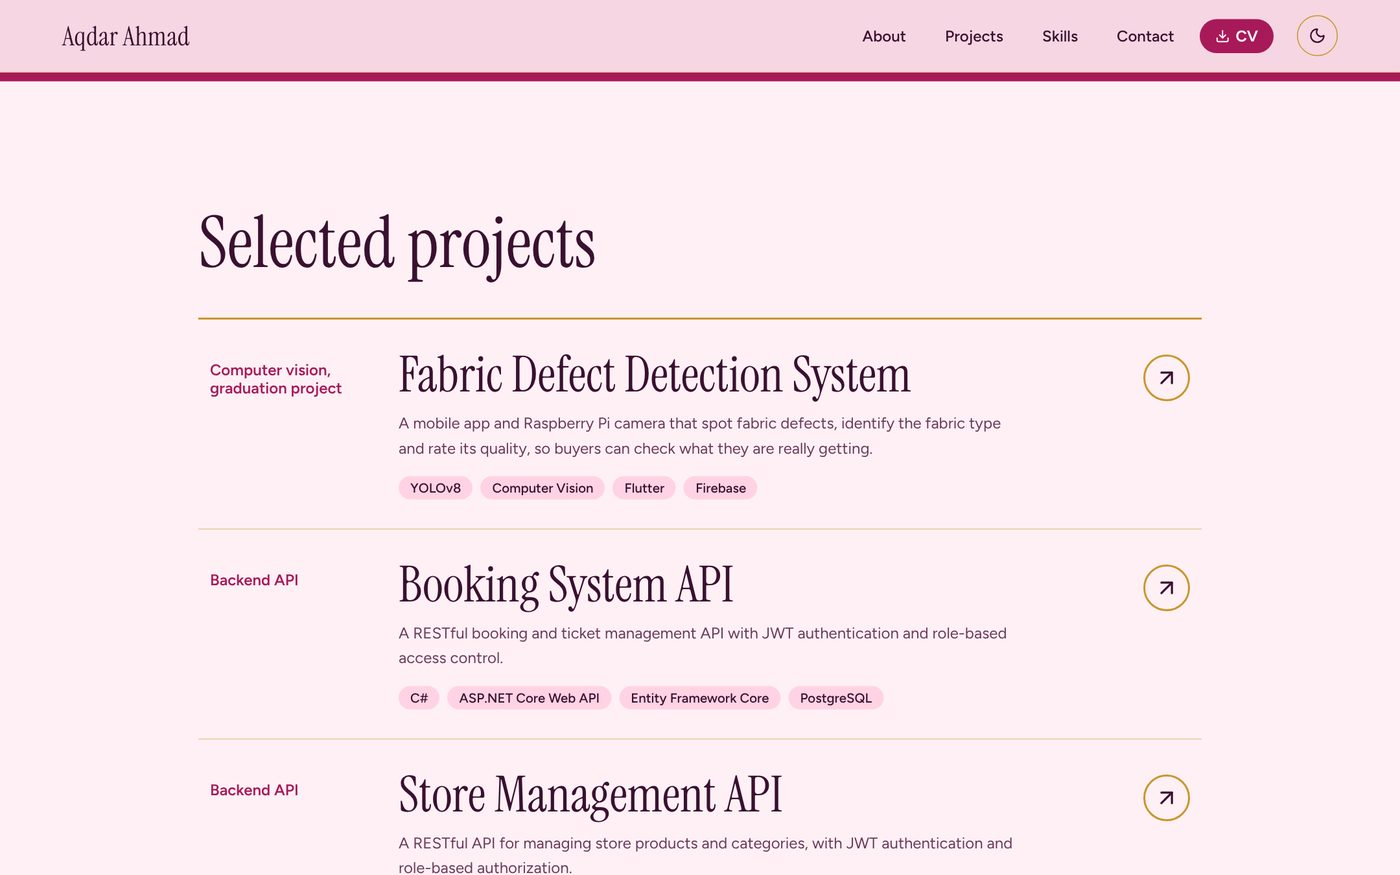
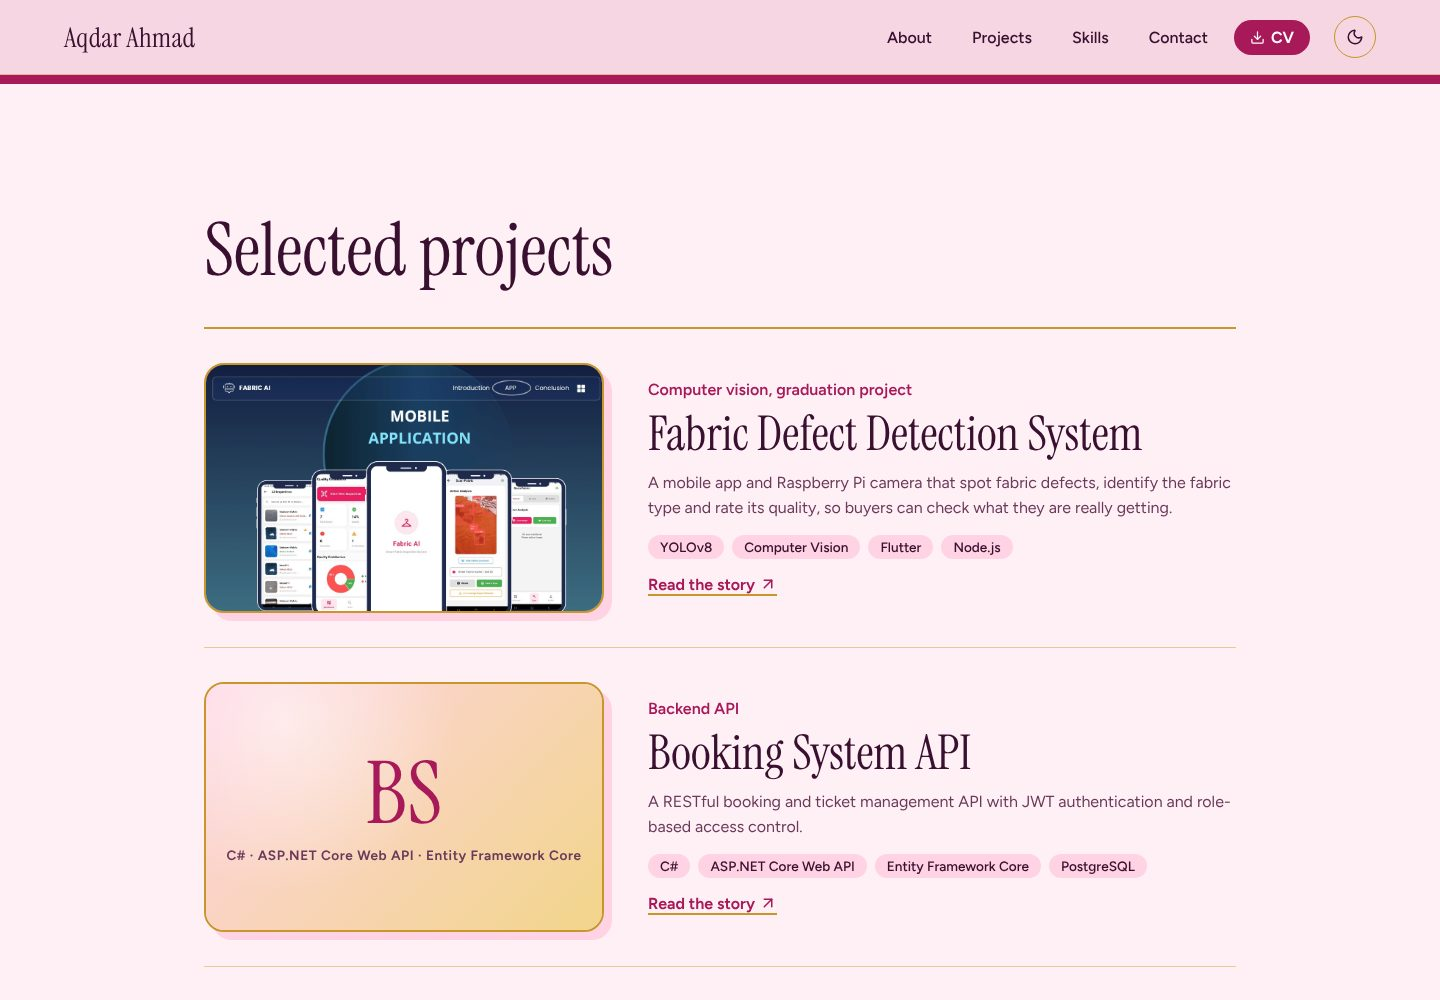
Projects: image cards that open the live demo; fallback covers
Claude-Session: https://claude.ai/code/session_01A6YrhRg93iCh5LCrNDyAS1

diff --git a/src/App.css b/src/App.css
@@ -253,36 +253,97 @@
 .project-list { border-top: 2px solid var(--gold); }
 .project-list li { border-bottom: 1px solid var(--line); }
 
-.project-row {
-  width: 100%;
+.project-card {
   display: grid;
-  grid-template-columns: 170px minmax(0, 1fr) 48px;
-  gap: 24px;
-  align-items: start;
-  padding: 30px 12px;
+  grid-template-columns: minmax(0, 400px) minmax(0, 1fr);
+  gap: clamp(20px, 3.5vw, 44px);
+  align-items: center;
+  padding: 34px 0;
+}
+
+.project-thumb {
+  position: relative;
+  display: block;
+  width: 100%;
+  aspect-ratio: 16 / 10;
+  padding: 0;
+  overflow: hidden;
+  border: 2px solid var(--gold);
+  border-radius: 20px;
+  background: var(--petal);
+  cursor: pointer;
+  box-shadow: 8px 8px 0 var(--petal);
+  transition: transform .3s ease, box-shadow .3s ease;
+}
+.project-thumb img {
+  width: 100%;
+  height: 100%;
+  object-fit: cover;
+  object-position: top center;
+  display: block;
+  transition: transform .5s ease;
+}
+.project-thumb:hover,
+.project-thumb:focus-visible { transform: translate(-3px, -3px); box-shadow: 12px 12px 0 var(--gold-soft); }
+.project-thumb:hover img { transform: scale(1.05); }
+
+.thumb-badge {
+  position: absolute;
+  right: 12px;
+  bottom: 12px;
+  display: inline-flex;
+  align-items: center;
+  gap: 6px;
+  padding: 8px 14px;
+  border-radius: 999px;
+  background: var(--plum);
+  color: var(--white);
+  font-size: .9rem;
+  font-weight: 650;
+  opacity: 0;
+  transform: translateY(6px);
+  transition: opacity .25s ease, transform .25s ease;
+}
+.project-thumb:hover .thumb-badge,
+.project-thumb:focus-visible .thumb-badge { opacity: 1; transform: none; }
+@media (hover: none) { .thumb-badge { opacity: 1; transform: none; } }
+
+.cover-fallback {
+  position: absolute;
+  inset: 0;
+  display: grid;
+  align-content: center;
+  justify-items: center;
+  gap: 10px;
+  background:
+    radial-gradient(circle at 20% 15%, rgba(255, 255, 255, .55), transparent 45%),
+    linear-gradient(135deg, var(--petal), var(--gold-soft));
+  color: var(--rose-deep);
+}
+.cover-initials { font-family: var(--font-display); font-size: clamp(3.4rem, 8vw, 5.4rem); line-height: 1; }
+.cover-label { font-size: .85rem; font-weight: 650; letter-spacing: .04em; color: var(--plum-soft); padding-inline: 12px; text-align: center; }
+
+.project-info {
+  display: grid;
+  gap: 10px;
+  justify-items: start;
+  padding: 0;
   background: transparent;
   border: 0;
   color: inherit;
   text-align: left;
   cursor: pointer;
-  transition: background-color .25s ease, padding .25s ease;
 }
-.project-row:hover { background: var(--bg-alt); padding-inline: 24px; }
-.project-row:hover .project-arrow { transform: rotate(45deg); background: var(--gold); color: var(--plum); }
-
-.project-kind {
-  padding-top: 12px;
-  font-weight: 600;
-  color: var(--accent);
-}
-.project-main { display: grid; gap: 10px; }
+.project-kind { font-weight: 600; color: var(--accent); }
 .project-title {
   font-family: var(--font-display);
-  font-size: clamp(2rem, 4vw, 3.2rem);
+  font-size: clamp(2rem, 3.6vw, 3rem);
   line-height: 1.05;
+  transition: color .2s ease;
 }
+.project-info:hover .project-title { color: var(--rose-deep); }
 .project-desc { color: var(--ink-soft); line-height: 1.6; max-width: 62ch; }
-.project-tags { display: flex; flex-wrap: wrap; gap: 8px; margin-top: 6px; }
+.project-tags { display: flex; flex-wrap: wrap; gap: 8px; margin-top: 4px; }
 .project-tags span {
   padding: 4px 12px;
   border-radius: 999px;
@@ -290,17 +351,17 @@
   font-size: .85rem;
   font-weight: 550;
 }
-.project-row:hover .project-tags span { background: var(--surface); color: var(--plum); }
-.project-arrow {
-  display: grid;
-  place-items: center;
-  width: 48px;
-  height: 48px;
+.project-more {
+  display: inline-flex;
+  align-items: center;
+  gap: 4px;
   margin-top: 6px;
-  border-radius: 50%;
-  border: 2px solid var(--gold);
-  transition: transform .25s ease, background-color .25s ease;
+  font-weight: 650;
+  color: var(--rose-deep);
+  border-bottom: 2px solid var(--gold);
 }
+.project-info:hover .project-more svg { transform: rotate(45deg); }
+.project-more svg { transition: transform .25s ease; }
 
 /* ---------- Skills ---------- */
 .skills {
@@ -438,10 +499,7 @@
     row-gap: 36px;
   }
   .hero-portrait { justify-self: center; width: min(78%, 360px); margin-right: 18px; }
-  .project-row { grid-template-columns: minmax(0, 1fr) 44px; }
-  .project-kind { grid-column: 1 / -1; padding-top: 0; }
-  .project-arrow { grid-column: 2; grid-row: 2; width: 44px; height: 44px; }
-  .project-main { grid-column: 1; grid-row: 2; }
+  .project-card { grid-template-columns: minmax(0, 1fr); gap: 22px; }
   .skill-group { grid-template-columns: 1fr; gap: 12px; }
 }
 

diff --git a/src/components/Projects.jsx b/src/components/Projects.jsx
@@ -1,4 +1,22 @@
-import { ArrowUpRight } from "lucide-react";
+import { ArrowUpRight, ExternalLink } from "lucide-react";
+
+function Cover({ project }) {
+  if (project.cover) {
+    return <img src={project.cover} alt={`${project.title} preview`} loading="lazy" />;
+  }
+  const initials = project.title
+    .split(" ")
+    .filter((w) => /^[A-Za-z]/.test(w) && w.length > 2)
+    .slice(0, 2)
+    .map((w) => w[0])
+    .join("");
+  return (
+    <span className="cover-fallback" aria-hidden="true">
+      <span className="cover-initials">{initials}</span>
+      <span className="cover-label">{project.tech.slice(0, 3).join("  ·  ")}</span>
+    </span>
+  );
+}
 
 export default function Projects({ projects, onSelectProject }) {
   return (
@@ -7,25 +25,50 @@ export default function Projects({ projects, onSelectProject }) {
 
       <ul className="project-list">
         {projects.map((project) => (
-          <li key={project.id}>
+          <li key={project.id} className="project-card">
+            {project.demo ? (
+              <a
+                className="project-thumb"
+                href={project.demo}
+                target="_blank"
+                rel="noreferrer"
+                aria-label={`Open the live demo of ${project.title}`}
+              >
+                <Cover project={project} />
+                <span className="thumb-badge">
+                  Live demo <ExternalLink size={15} />
+                </span>
+              </a>
+            ) : (
+              <button
+                type="button"
+                className="project-thumb"
+                onClick={() => onSelectProject(project)}
+                aria-label={`Open details for ${project.title}`}
+              >
+                <Cover project={project} />
+                <span className="thumb-badge">
+                  Details <ArrowUpRight size={15} />
+                </span>
+              </button>
+            )}
+
             <button
               type="button"
-              className="project-row"
+              className="project-info"
               onClick={() => onSelectProject(project)}
               aria-label={`Open details for ${project.title}`}
             >
               <span className="project-kind">{project.category}</span>
-              <span className="project-main">
-                <span className="project-title">{project.title}</span>
-                <span className="project-desc">{project.description}</span>
-                <span className="project-tags">
-                  {project.tech.slice(0, 4).map((t) => (
-                    <span key={t}>{t}</span>
-                  ))}
-                </span>
+              <span className="project-title">{project.title}</span>
+              <span className="project-desc">{project.description}</span>
+              <span className="project-tags">
+                {project.tech.slice(0, 4).map((t) => (
+                  <span key={t}>{t}</span>
+                ))}
               </span>
-              <span className="project-arrow" aria-hidden="true">
-                <ArrowUpRight size={26} />
+              <span className="project-more">
+                Read the story <ArrowUpRight size={18} />
               </span>
             </button>
           </li>

diff --git a/src/data/projects.js b/src/data/projects.js
@@ -28,6 +28,7 @@ export const projects = [
       "My senior graduation project, built with a team of three. People buying fabric often cannot tell the material, find defects by eye, or find the same fabric again, and online listings can be misleading. Fabric AI takes a photo from the phone or from a Raspberry Pi 4 camera with a ring light, sends it to a YOLOv8 model hosted on Roboflow, and shows the defect type, the fabric type and a quality score in the app, with reports that can be saved. The model was trained on a custom defect dataset (holes, stains and tears) and reached 85.1% mAP@50, 86.8% precision and 81.7% F1-score. The Flutter app also runs as a website: a small Node.js server handles sign-in and keeps the AI keys private, and the app keeps a history of every inspection.",
     tech: ["YOLOv8", "Computer Vision", "Flutter", "Node.js", "Raspberry Pi 4", "Roboflow", "Google Colab"],
     icon: "fabric",
+    cover: "/fabric/app-overview.png",
     demo: "https://fabric-ai-py95.onrender.com",
     github: "https://github.com/aqdarahmad/Fabric-AI",
     gallery: [
@@ -165,6 +166,7 @@ export const projects = [
       "JWT",
     ],
     icon: "booking",
+    cover: "/quizloom-cover.jpg",
     demo: "https://quiz-loom.onrender.com",
     github: "https://github.com/aqdarahmad/Quiz-Loom",
   },
